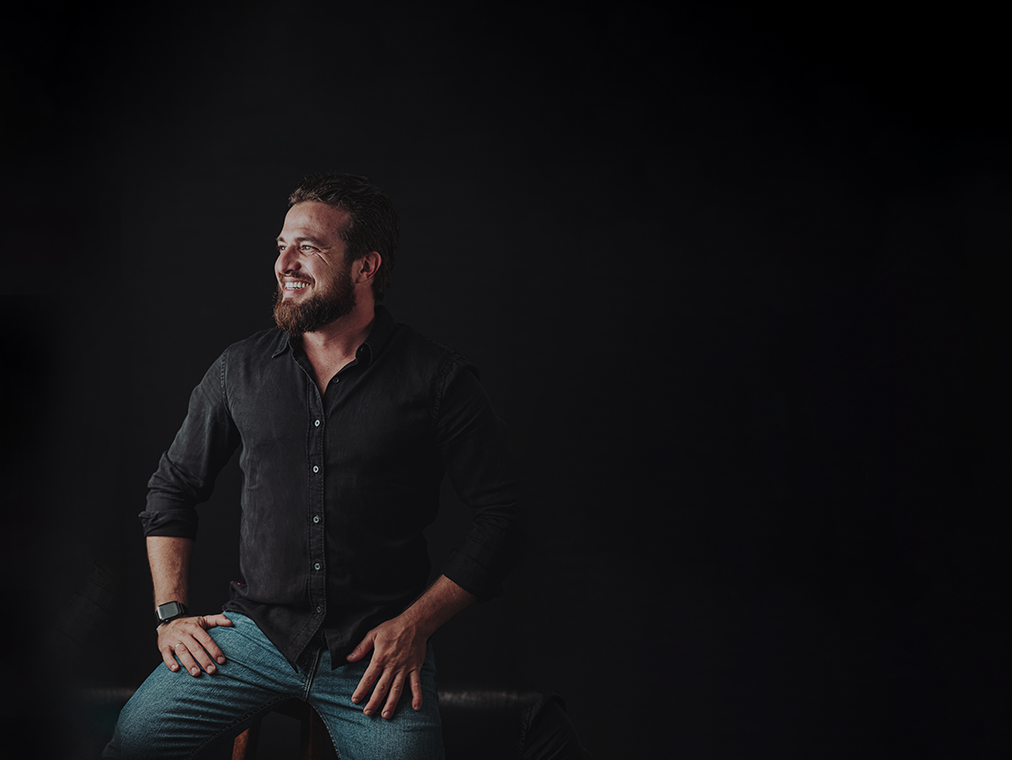
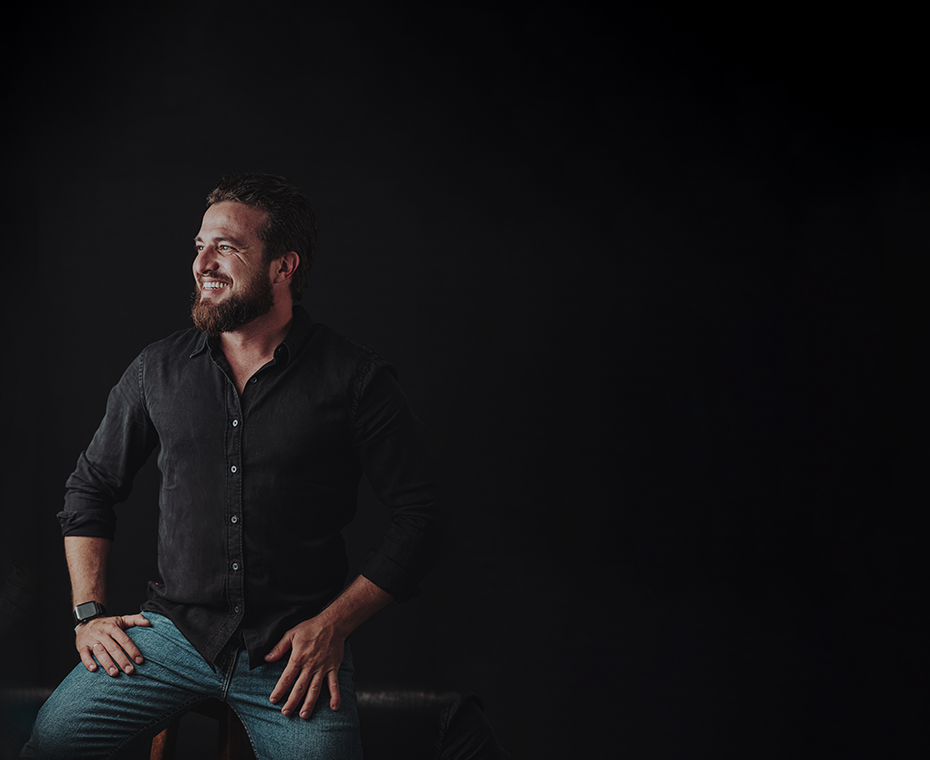
Update Site jean

Changed region(s): [[0.0312, 0.2421, 0.4677, 1.0]]

diff --git a/jean/index.html b/jean/index.html
@@ -100,12 +100,12 @@
                 <div class="container container-xl-custom z-index-1">
                     <div class="row">
                         <div class="col-md-7 col-lg-6">
-                            <h1 class="text-color-light font-weight-extra-bold text-6 text-lg-10 text-xl-14 line-height-1-1 negative-ls-1 pb-2 mb-2 mb-xl-4 appear-animation"
+                            <h1 class="text-color-light font-weight-extra-bold text-6 text-lg-6 text-xl-9 line-height-1-1 negative-ls-1 pb-2 mb-2 mb-xl-4 appear-animation"
                                 data-appear-animation="fadeInUpShorter" data-appear-animation-delay="300">PREPARANDO SEU
                                 FILHO PARA A VIDA</h1>
                                 <span class="d-block text-white custom-heading-bar custom-heading-bar-with-padding font-weight-light text-5 mb-3 appear-animation"
                                 data-appear-animation="fadeInUpShorter" data-appear-animation-delay="300">04 de Abril - 19:30h - Instagram - 100% gratuito</span>
-                            <p class="text-4 custom-font-secondary text-white line-height-5 text-xl-5 pe-5 pb-3 mb-2 mb-xl-4 appear-animation"
+                            <p class="text-4 custom-font-secondary text-white line-height-5 text-lg-3 text-xl-4 pe-5 pb-3 mb-2 mb-xl-4 appear-animation"
                                 data-appear-animation="fadeInUpShorter" data-appear-animation-delay="500">Como criar
                                 filhos <strong>responsáveis</strong> e preparados para lidar com as dificuldades do
                                 mundo.</p>

diff --git a/jean/css/demos/demo-it-services.css b/jean/css/demos/demo-it-services.css
@@ -244,10 +244,36 @@ body {
         background-attachment: fixed;
     }
 }
-
-@media (max-width: 767px) {
+@media (max-width: 1367px) {
     .custom-section-svg>svg {
-        width: 290%;
+        width: 105%;
+		opacity: 1;
+    }
+}
+
+@media (max-width: 1200px) {
+    .custom-section-svg>svg {
+        width: 105%;
+		opacity: 1;
+    }
+}
+@media (max-width: 900px) {
+    .custom-section-svg>svg {
+        width: 200%;
+		opacity: 1;
+    }
+}
+
+@media (max-width: 768px) {
+    .custom-section-svg>svg {
+        width: 200%;
+		opacity: 1;
+    }
+}
+
+@media (max-width: 590px) {
+    .custom-section-svg>svg {
+        width: 350%;
 		opacity: 1;
     }
 }
